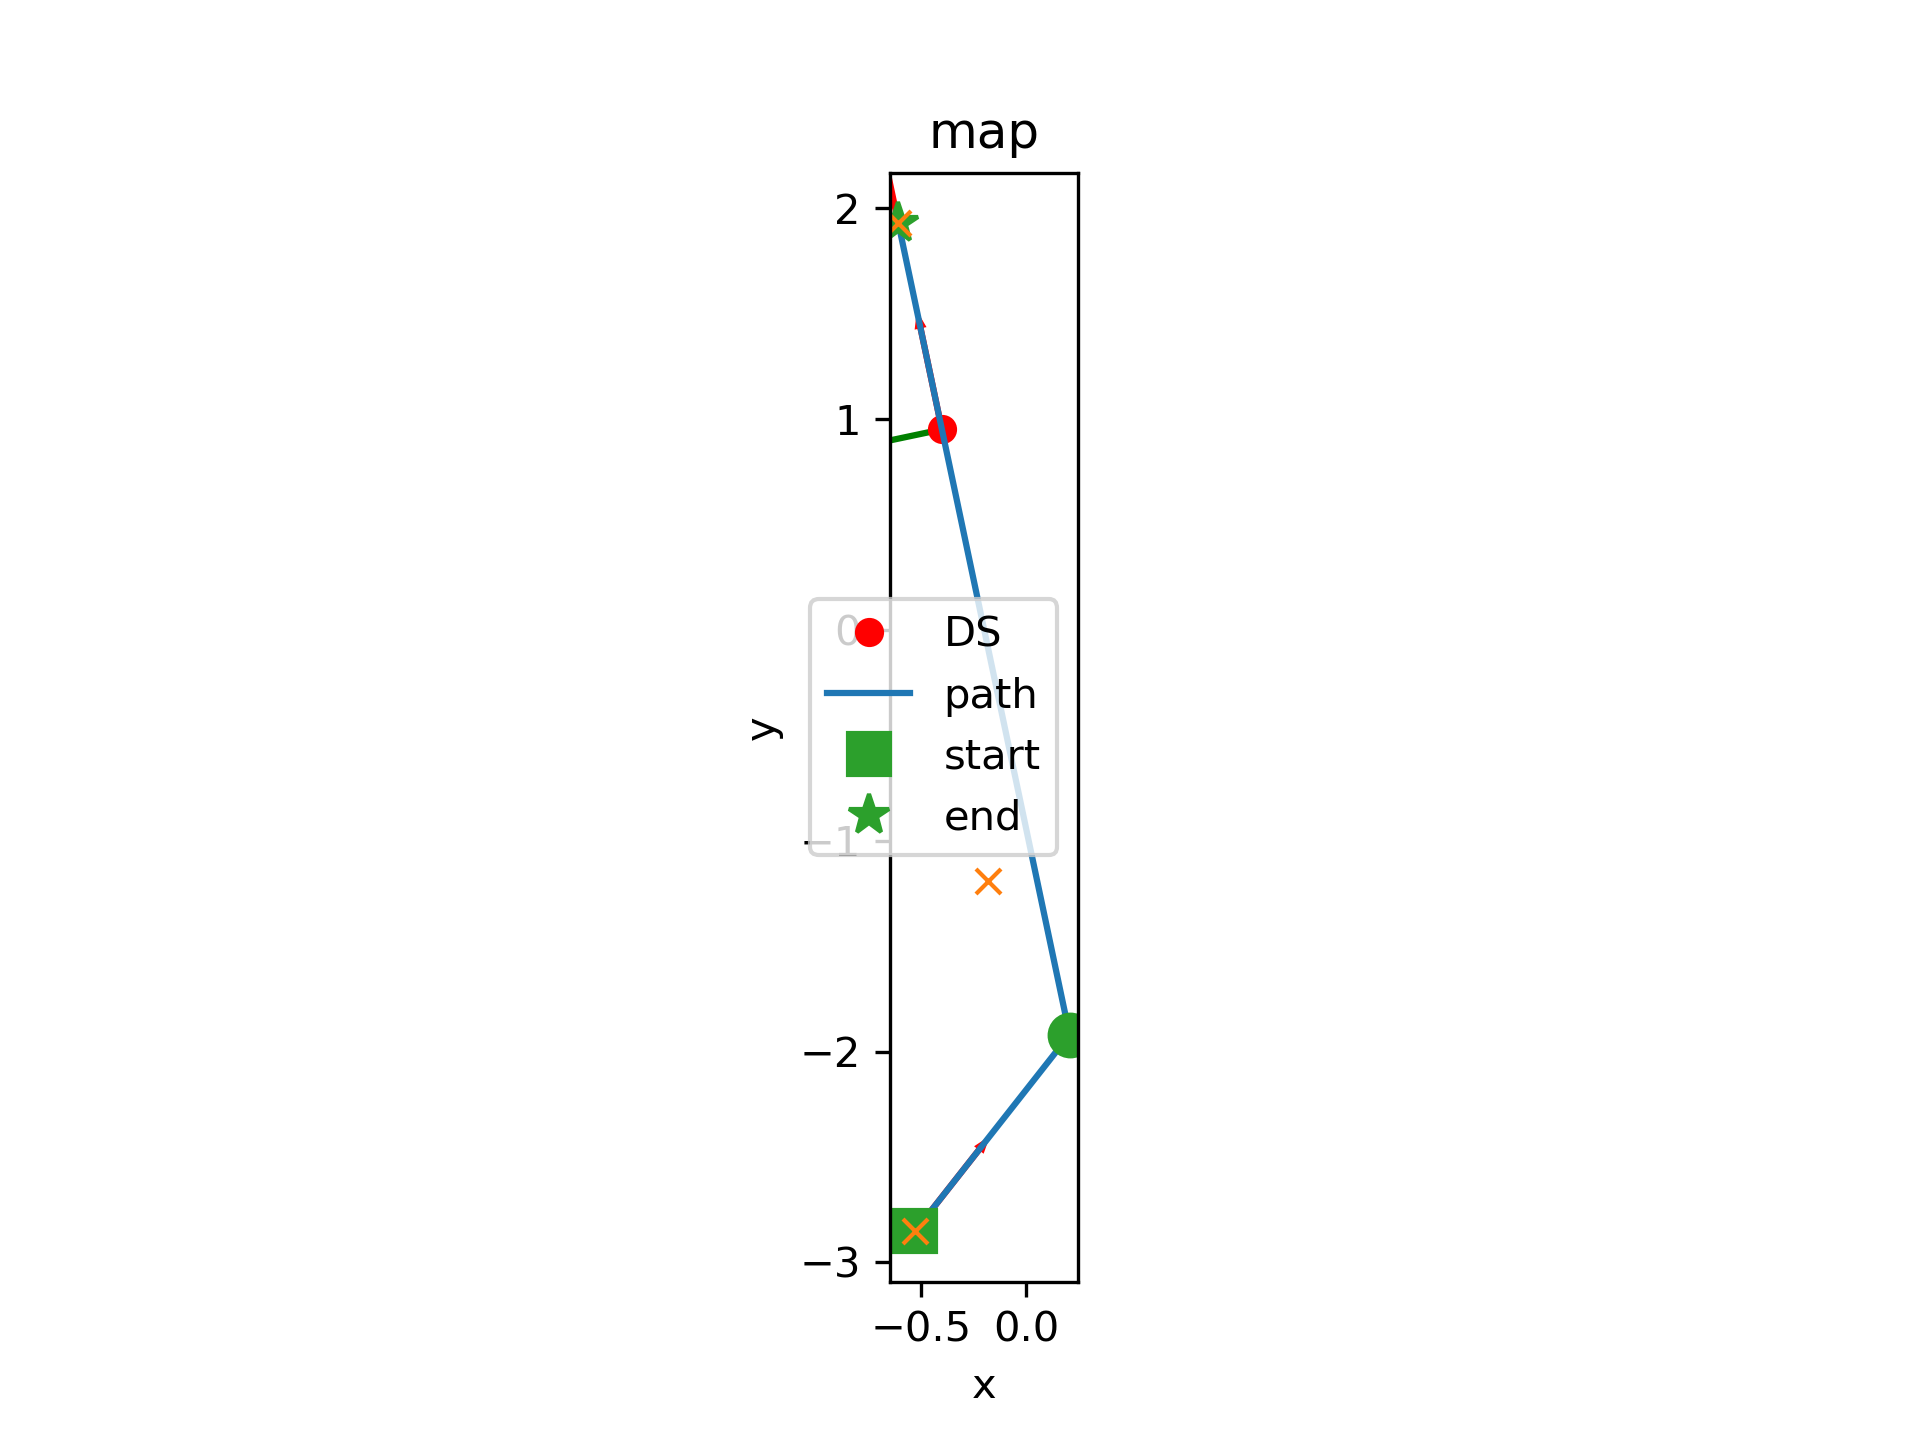
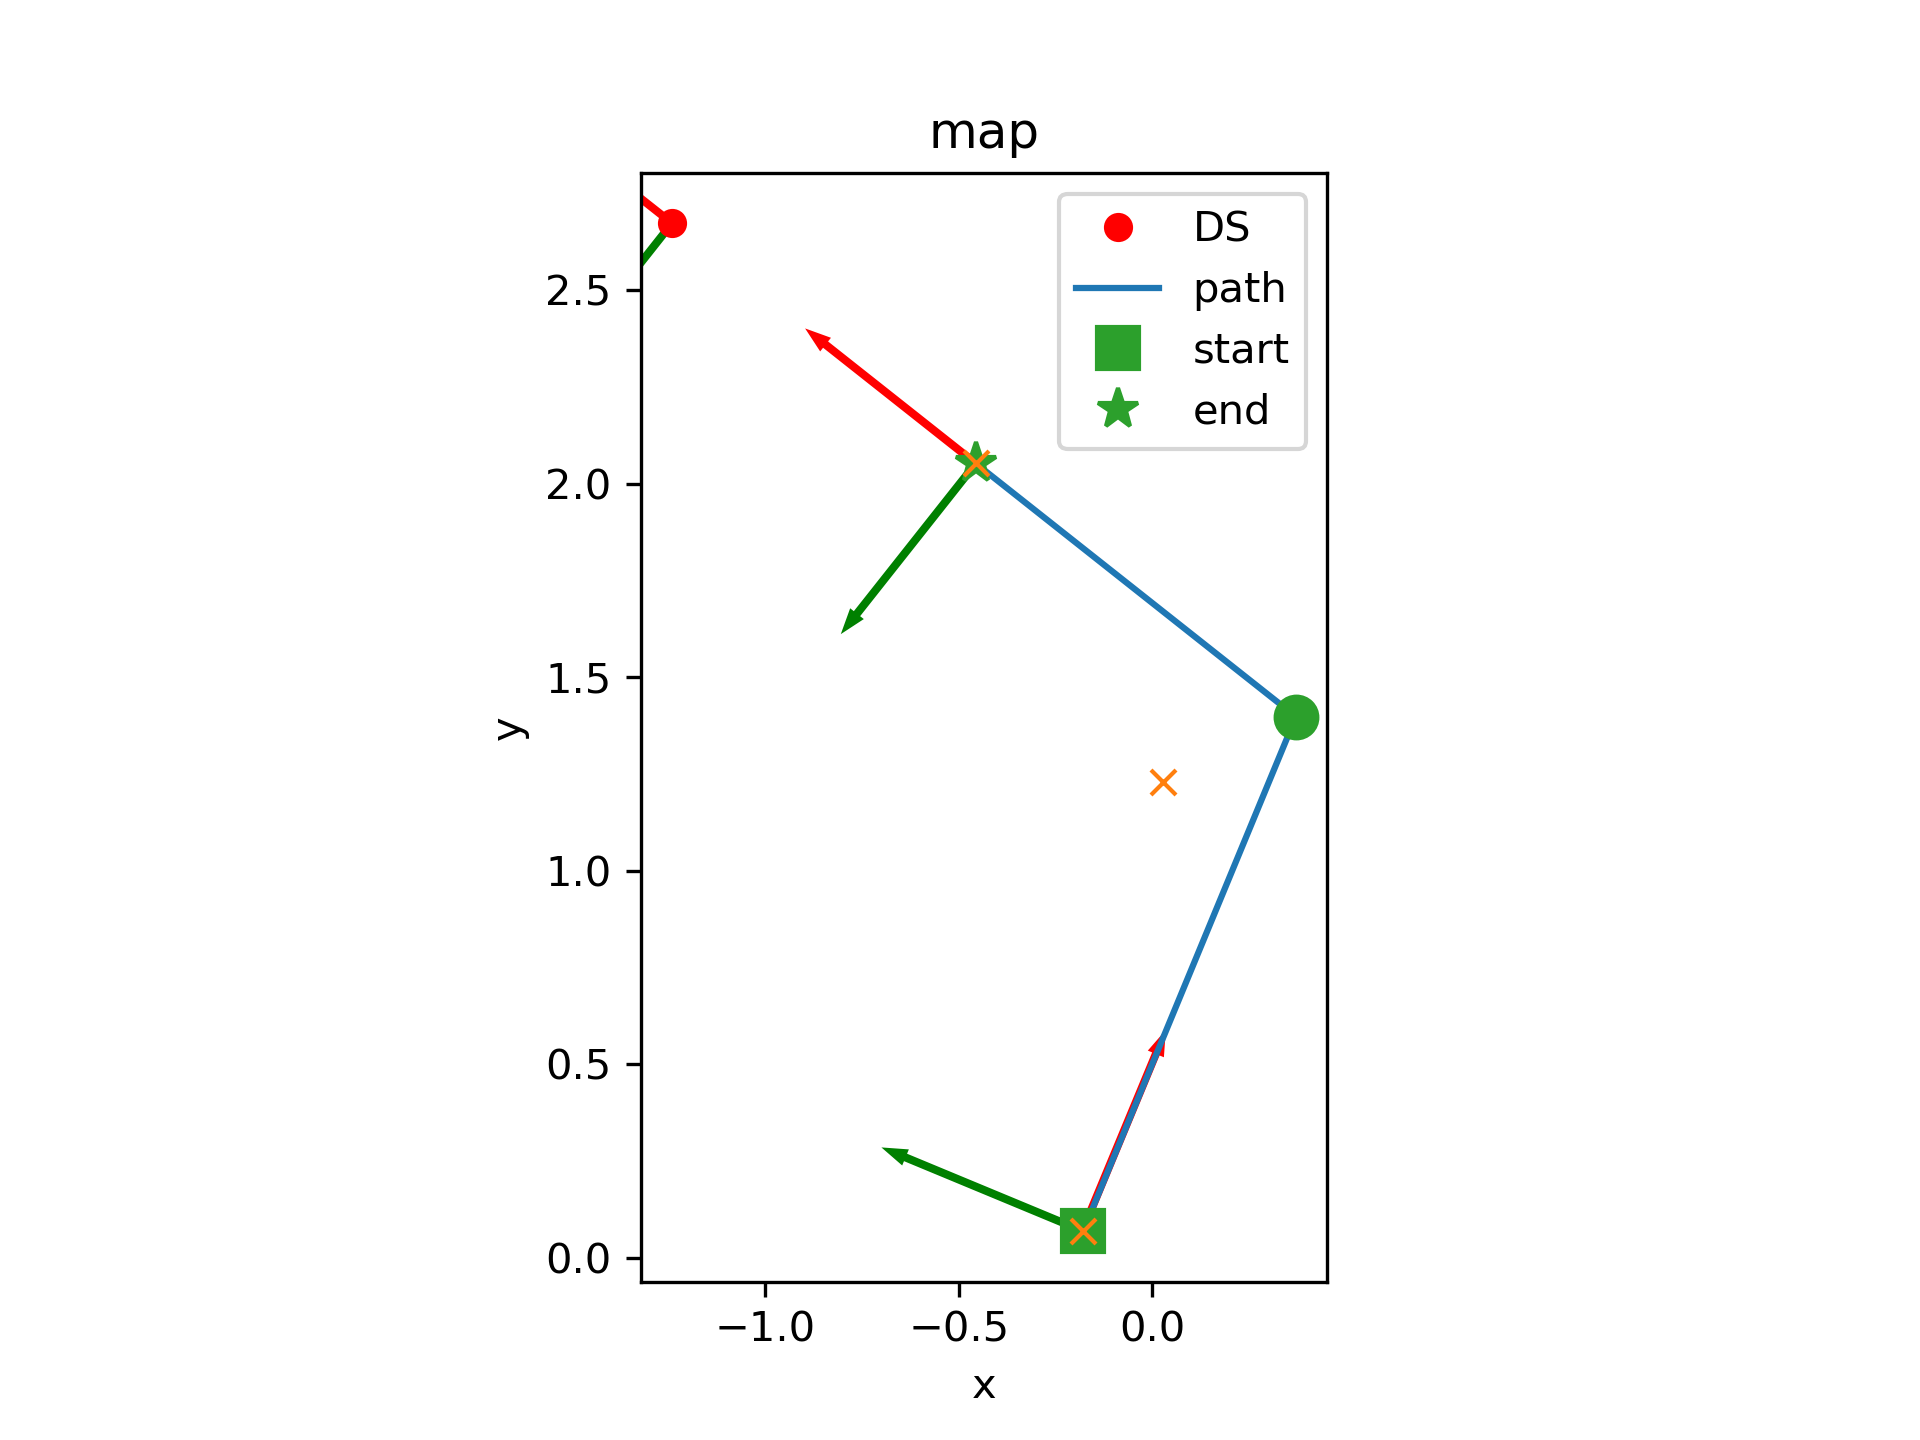
Ready for SAM

diff --git a/src/WaypointFollowingController.py b/src/WaypointFollowingController.py
@@ -44,7 +44,7 @@ class WaypointFollowingController(object):
 
         # Desired depth and pitch for the experiments (limited to 2D plane)
         # In simulation depth is negative (ENU), in reality, it's positive (NED)
-        self.depth_desired = 1. 
+        self.depth_desired = 1 
         self.pitch_desired = 0.
 
         self.err = np.array([0., 0., 0., 0., 0., 0.])
@@ -117,8 +117,8 @@ class WaypointFollowingController(object):
 
             self.computeAntiWindup(u)
 
-            # self.publishControlAction(self.uLimited)
-            self.publishControlAction(self.uNeutral)
+            self.publishControlAction(self.uLimited)
+            # self.publishControlAction(self.uNeutral)
 
             if verbose:
                 self.printStates(u)
@@ -237,16 +237,16 @@ class WaypointFollowingController(object):
                         self.lcgNeutral])
 
         ## SIM PARAMETERS
-        Kp = np.array([40, 5, 5, 40, 60])      # P control gain
-        Ki = np.array([0.5, 0.1, 0.1, 0.75, 1.25])       # I control gain
-        Kd = np.array([1., 1., 1., 1., 6.])         # D control gain
-        Kaw = np.array([1., 1., 1., 0., 1.])        # Anti-Windup Gain
+        # Kp = np.array([40, 5, 5, 40, 60])      # P control gain
+        # Ki = np.array([0.5, 0.1, 0.1, 0.75, 1.25])       # I control gain
+        # Kd = np.array([1., 1., 1., 1., 6.])         # D control gain
+        # Kaw = np.array([1., 1., 1., 0., 1.])        # Anti-Windup Gain
 
         ## TANK PARAMETERS
-        # Kp = np.array([40, 5, 5, 40, 60])      # P control gain
-        # Ki = np.array([0., 0., 0., 0., 0.])       # I control gain
-        # Kd = np.array([1., 1., 1., 1., 6.])         # D control gain
-        # Kaw = np.zeros(5)
+        Kp = np.array([40, 5, 5, 40, 60])      # P control gain
+        Ki = np.array([0., 0., 0., 0., 0.])       # I control gain
+        Kd = np.array([1., 1., 1., 1., 6.])         # D control gain
+        Kaw = np.zeros(5)
 
         self.errPrev = self.err
         self.err = self.ref - self.stateEstim
@@ -261,11 +261,11 @@ class WaypointFollowingController(object):
 
         ## SIM CONTROLLER
         # u[3] = -(Kp[3]*self.err[2] + Ki[3]*self.integral[2])   # PI control vbs
-        u[4] = -(Kp[4]*self.err[4] + self.lcgNeutral - Ki[4]*self.integral[4] - Kaw[4]*self.antiWindupDifferenceInt[4])   # PI control lcg
+        # u[4] = -(Kp[4]*self.err[4] + self.lcgNeutral - Ki[4]*self.integral[4] - Kaw[4]*self.antiWindupDifferenceInt[4])   # PI control lcg
 
         ## TANK CONTROLLER
         u[3] = (Kp[3]*self.err[2] + self.vbsNeutral + Ki[3]*self.integral[2] + Kaw[3]*self.antiWindupDifferenceInt[3])   # PI control vbs
-        # u[4] = (Kp[4]*self.err[4] + self.lcgNeutral + Kd[4]*self.deriv[4])   # PD control lcg
+        u[4] = (Kp[4]*self.err[4] + self.lcgNeutral + Kd[4]*self.deriv[4])   # PD control lcg
 
         return u
 
@@ -279,18 +279,18 @@ class WaypointFollowingController(object):
                         self.lcgNeutral])
 
         # SIM PARAMETERS
-        Kp = np.array([40, 5, 5, 100, 50])        # P control gain
-        Ki = np.array([0.5, 0.1, 0.1, 2, 1])       # I control gain
-        Kd = np.array([1., 1., 1., 1., 1.])         # D control gain
-        Kaw = np.array([1., 1., 1., 4., 1.])        # Anti-Windup Gain
+        # Kp = np.array([40, 5, 5, 100, 50])        # P control gain
+        # Ki = np.array([0.5, 0.1, 0.1, 2, 1])       # I control gain
+        # Kd = np.array([1., 1., 1., 1., 1.])         # D control gain
+        # Kaw = np.array([1., 1., 1., 4., 1.])        # Anti-Windup Gain
         
         # TANK PARAMETERS
-        # Kp = np.array([40, 5, 5, 40, 60])      # P control gain
-        # # Ki = np.array([0.5, 0.1, 0.1, 0.75, 1.25])       # I control gain
-        # Ki = np.array([0., 0., 0., 0., 0.])       # I control gain
-        # Kd = np.array([1., 1., 1., 1., 6.])         # D control gain
-        # #Kaw = np.array([1., 1., 1., 0., 1.])        # Anti-Windup Gain
-        # Kaw = np.zeros(5)
+        Kp = np.array([40, 5, 5, 40, 60])      # P control gain
+        # Ki = np.array([0.5, 0.1, 0.1, 0.75, 1.25])       # I control gain
+        Ki = np.array([0., 0., 0., 0., 0.])       # I control gain
+        Kd = np.array([1., 1., 1., 1., 6.])         # D control gain
+        #Kaw = np.array([1., 1., 1., 0., 1.])        # Anti-Windup Gain
+        Kaw = np.zeros(5)
 
         
         # We need to integrate the anti windup before adding it to the error
@@ -333,32 +333,32 @@ class WaypointFollowingController(object):
             u[0] = 200
             
             # SIM CONTROLLER
-            u[1] = -(Kp[1]*self.headingAngle + Ki[1]*self.headingAngleInt - Kaw[1]*self.antiWindupDifferenceInt[1])   # PI control vectoring (horizontal)
+            # u[1] = -(Kp[1]*self.headingAngle + Ki[1]*self.headingAngleInt - Kaw[1]*self.antiWindupDifferenceInt[1])   # PI control vectoring (horizontal)
             
             # TANK CONTROLLER
-            # u[1] = -(Kp[1]*self.headingAngle + Ki[1]*self.headingAngleInt - Kaw[1]*self.antiWindupDifferenceInt[1])   # PI control vectoring (horizontal)
+            u[1] = -(Kp[1]*self.headingAngle + Ki[1]*self.headingAngleInt - Kaw[1]*self.antiWindupDifferenceInt[1])   # PI control vectoring (horizontal)
 
         elif self.distanceErr < -stopRadius:
             u[0] = -200
             self.headingAngleScaled = np.sign(self.headingAngle) * (np.pi - np.abs(self.headingAngle))
             
             # SIM CONTROLLER
-            u[1] = -(Kp[1]*self.headingAngleScaled - (Ki[1]*self.headingAngleInt + Kaw[1]*self.antiWindupDifferenceInt[1]))   # PI control vectoring (horizontal)
+            # u[1] = -(Kp[1]*self.headingAngleScaled - (Ki[1]*self.headingAngleInt + Kaw[1]*self.antiWindupDifferenceInt[1]))   # PI control vectoring (horizontal)
             
             # TANK CONTROLLER
-            # u[1] = -(Kp[1]*self.headingAngleScaled - (Ki[1]*self.headingAngleInt + Kaw[1]*self.antiWindupDifferenceInt[1]))   # PI control vectoring (horizontal)
+            u[1] = -(Kp[1]*self.headingAngleScaled - (Ki[1]*self.headingAngleInt + Kaw[1]*self.antiWindupDifferenceInt[1]))   # PI control vectoring (horizontal)
 
         else:
             u[0] = 0
         
         # SIM CONTROLLER
-        u[2] = (Kp[2]*self.err[2] + Ki[2]*self.integral[2] + Kaw[2]*self.antiWindupDifferenceInt[2])   # PI control vectoring (vertical)
+        # u[2] = (Kp[2]*self.err[2] + Ki[2]*self.integral[2] + Kaw[2]*self.antiWindupDifferenceInt[2])   # PI control vectoring (vertical)
         # u[3] = -(Kp[3]*self.err[2] + Ki[3]*self.integral[2])   # PI control vbs
-        u[4] = -(Kp[4]*self.err[4] - Ki[4]*self.integral[4] - Kaw[4]*self.antiWindupDifferenceInt[4])   # PI control lcg
+        # u[4] = -(Kp[4]*self.err[4] - Ki[4]*self.integral[4] - Kaw[4]*self.antiWindupDifferenceInt[4])   # PI control lcg
 
         # TANK CONTROLLER
         u[3] = (Kp[3]*self.err[2] + self.vbsNeutral + Ki[3]*self.integral[2] + Kaw[3]*self.antiWindupDifferenceInt[3])   # PI control vbs
-        # u[4] = (Kp[4]*self.err[4] + self.lcgNeutral + Kd[4]*self.deriv[4])   # PD control lcg
+        u[4] = (Kp[4]*self.err[4] + self.lcgNeutral + Kd[4]*self.deriv[4])   # PD control lcg
 
         return u
     

diff --git a/src/simplePathPlanner.py b/src/simplePathPlanner.py
@@ -125,7 +125,7 @@ class SimplePathPlanner(object):
         self.goal[2] = DSPose[5]
 
 
-        xAxisDS, yAxisDS = self.calculateOrientationAxes(self.goal[2], 1)
+        xAxisDS, yAxisDS = self.calculateOrientationAxes(self.goal[2], -1)
         self.target = np.array([self.goal[0] + xAxisDS[0], self.goal[1] + xAxisDS[1]])
 
         targetMap = PoseWithCovarianceStamped()
@@ -262,7 +262,7 @@ class SimplePathPlanner(object):
 
 
     def inFeasibleRegion(self):
-        return True
+        # return True
         if self.goalBase[0] < 0:
             rospy.logwarn("Not facing docking station, xDS: {}".format(self.goalBase[0]))
             return False
